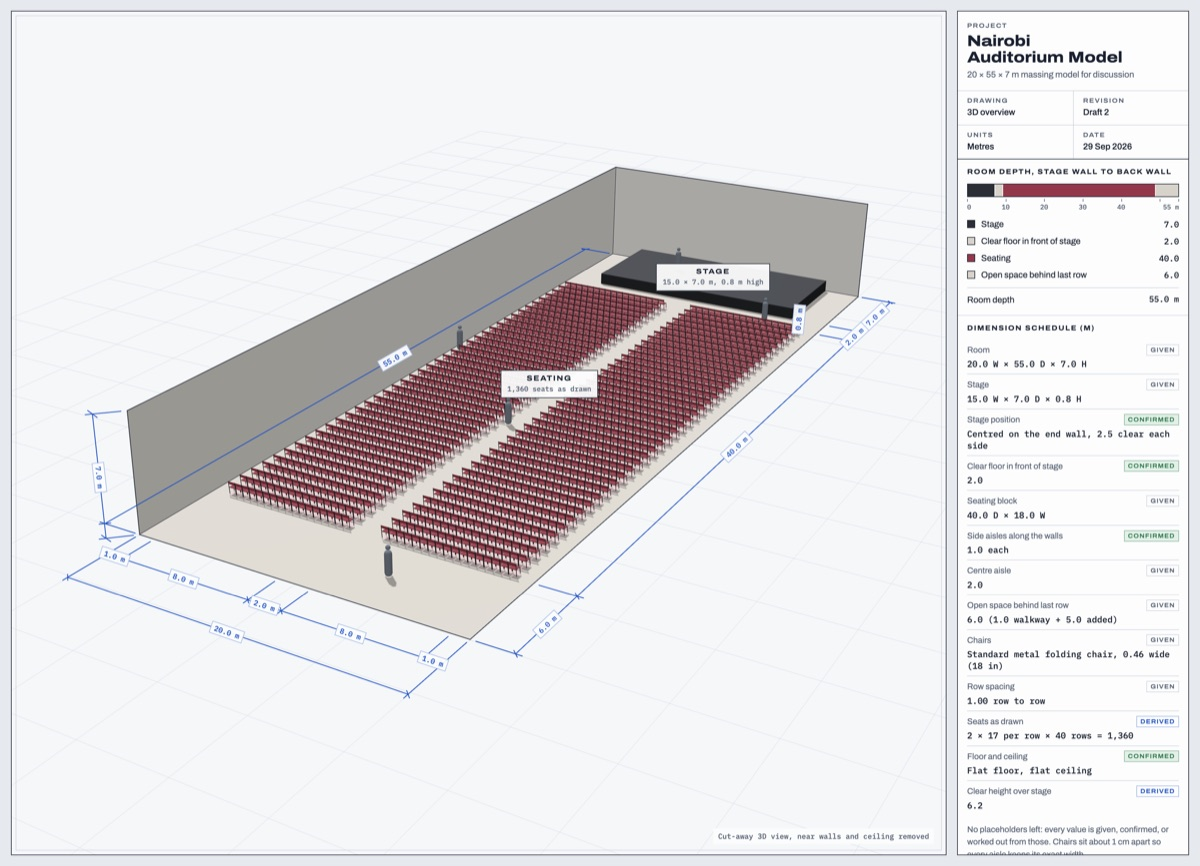
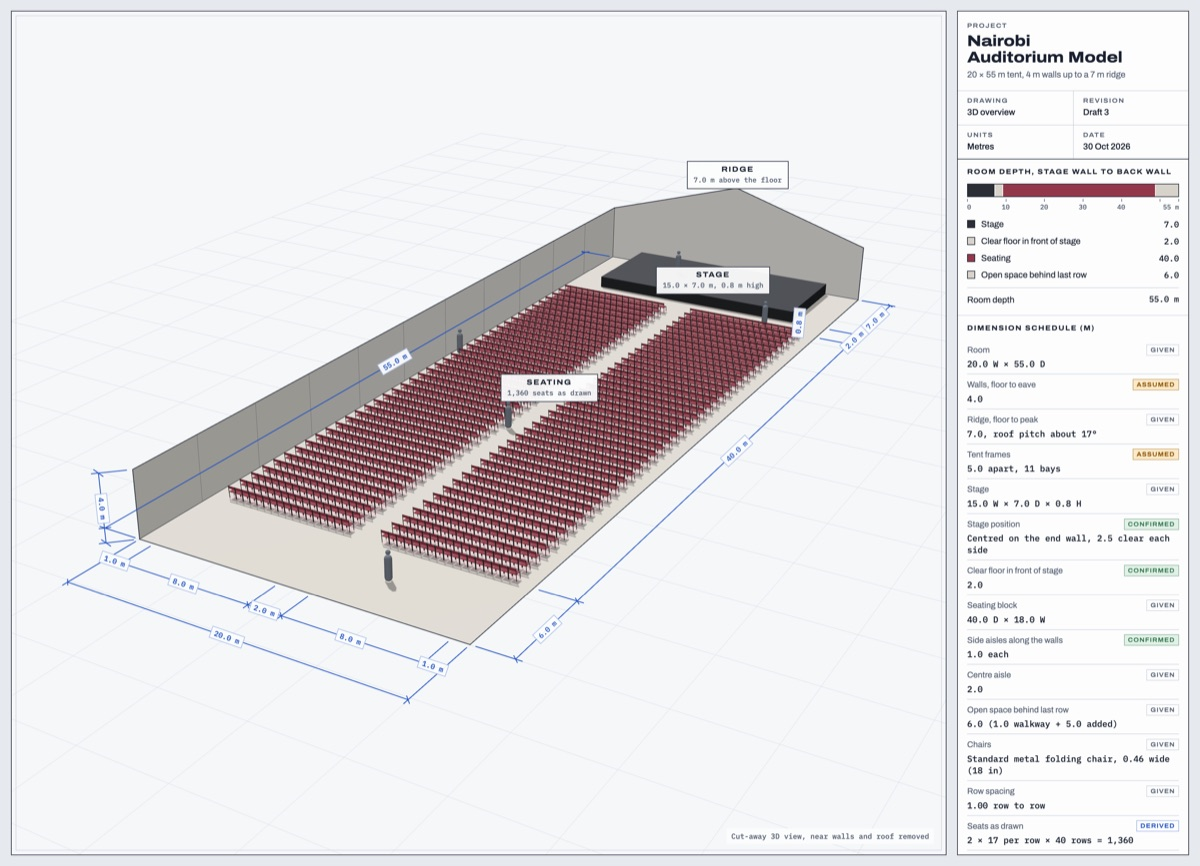
Draft 3: the room is a tent, as in the photo
4 m walls to the eaves, two roof slopes up to the 7 m ridge, gabled end walls,
frames every 5 m. Eave height and frame spacing read from the 26 July photo.

diff --git a/index.html b/index.html
@@ -4,10 +4,10 @@
 <meta charset="utf-8">
 <meta name="viewport" content="width=device-width, initial-scale=1, viewport-fit=cover">
 <meta name="robots" content="noindex">
-<meta name="description" content="Interactive 3D massing model of a 20 × 55 × 7 m auditorium: 15 × 7 m stage and 1,360 folding chairs either side of a 2 m centre aisle. Plan, section and eye-level views, and a photo of the room today.">
+<meta name="description" content="Interactive 3D massing model of a 20 × 55 m tent auditorium (4 m walls up to a 7 m ridge): 15 × 7 m stage and 1,360 folding chairs either side of a 2 m centre aisle. Plan, section and eye-level views, and a photo of the room today.">
 <meta property="og:type" content="website">
 <meta property="og:title" content="Nairobi Auditorium Model">
-<meta property="og:description" content="Interactive 3D massing model of a 20 × 55 × 7 m auditorium: 15 × 7 m stage and 1,360 folding chairs either side of a 2 m centre aisle. Plan, section and eye-level views, and a photo of the room today.">
+<meta property="og:description" content="Interactive 3D massing model of a 20 × 55 m tent auditorium (4 m walls up to a 7 m ridge): 15 × 7 m stage and 1,360 folding chairs either side of a 2 m centre aisle. Plan, section and eye-level views, and a photo of the room today.">
 <meta property="og:url" content="https://brianpitre.github.io/nairobi-auditorium-model/">
 <meta property="og:image" content="https://brianpitre.github.io/nairobi-auditorium-model/preview.jpg">
 <meta name="twitter:card" content="summary_large_image">
@@ -222,7 +222,7 @@ a:focus-visible { outline: 2px solid var(--dim); outline-offset: 2px; }
         <div class="bar"><i></i><i></i><i></i><i></i></div>
         <div class="ticks"><span>0</span><span class="t-mid">5</span><span class="t-end">10 m</span></div>
       </div>
-      <p id="caption" class="caption">Cut-away 3D view, near walls and ceiling removed</p>
+      <p id="caption" class="caption">Cut-away 3D view, near walls and roof removed</p>
     </div>
   </main>
 
@@ -231,12 +231,12 @@ a:focus-visible { outline: 2px solid var(--dim); outline-offset: 2px; }
       <div class="wide">
         <span class="k">Project</span>
         <h1 data-k="title">Nairobi Auditorium Model</h1>
-        <p class="sub" data-k="sub">20 × 55 × 7 m massing model for discussion</p>
+        <p class="sub" data-k="sub">20 × 55 m tent, 4 m walls up to a 7 m ridge</p>
       </div>
       <div><span class="k">Drawing</span><span class="v" id="tbView">3D overview</span></div>
-      <div class="c2"><span class="k">Revision</span><span class="v" data-k="rev">Draft 2</span></div>
+      <div class="c2"><span class="k">Revision</span><span class="v" data-k="rev">Draft 3</span></div>
       <div><span class="k">Units</span><span class="v">Metres</span></div>
-      <div class="c2"><span class="k">Date</span><span class="v" data-k="date">29 Sep 2026</span></div>
+      <div class="c2"><span class="k">Date</span><span class="v" data-k="date">30 Oct 2026</span></div>
     </header>
 
     <section class="sec photo-sec ui-only" id="photo">
@@ -274,7 +274,10 @@ a:focus-visible { outline: 2px solid var(--dim); outline-offset: 2px; }
     <section class="sec">
       <h2>Dimension schedule (m)</h2>
       <ul class="sched">
-        <li><span class="item">Room</span><em class="chip given">Given</em><span class="val" data-k="room">20.0 W × 55.0 D × 7.0 H</span></li>
+        <li><span class="item">Room</span><em class="chip given">Given</em><span class="val" data-k="room">20.0 W × 55.0 D</span></li>
+        <li><span class="item">Walls, floor to eave</span><em class="chip assumed">Assumed</em><span class="val" data-k="eave">4.0</span></li>
+        <li><span class="item">Ridge, floor to peak</span><em class="chip given">Given</em><span class="val" data-k="ridge">7.0, roof pitch about 17°</span></li>
+        <li><span class="item">Tent frames</span><em class="chip assumed">Assumed</em><span class="val" data-k="bays">5.0 apart, 11 bays</span></li>
         <li><span class="item">Stage</span><em class="chip given">Given</em><span class="val" data-k="stage">15.0 W × 7.0 D × 0.8 H</span></li>
         <li><span class="item">Stage position</span><em class="chip confirmed">Confirmed</em><span class="val" data-k="stagepos">Centred on the end wall, 2.5 clear each side</span></li>
         <li><span class="item">Clear floor in front of stage</span><em class="chip confirmed">Confirmed</em><span class="val" data-k="front">2.0</span></li>
@@ -285,10 +288,10 @@ a:focus-visible { outline: 2px solid var(--dim); outline-offset: 2px; }
         <li><span class="item">Chairs</span><em class="chip given">Given</em><span class="val" data-k="chair">Standard metal folding chair, 0.46 wide (18 in)</span></li>
         <li><span class="item">Row spacing</span><em class="chip given">Given</em><span class="val" data-k="pitch">1.00 row to row</span></li>
         <li><span class="item">Seats as drawn</span><em class="chip derived">Derived</em><span class="val" data-k="seats">2 × 17 per row × 40 rows = 1,360</span></li>
-        <li><span class="item">Floor and ceiling</span><em class="chip confirmed">Confirmed</em><span class="val">Flat floor, flat ceiling</span></li>
-        <li><span class="item">Clear height over stage</span><em class="chip derived">Derived</em><span class="val" data-k="clearH">6.2</span></li>
+        <li><span class="item">Floor and roof</span><em class="chip confirmed">Confirmed</em><span class="val">Flat floor; tent roof sloping both ways from a centre ridge</span></li>
+        <li><span class="item">Clear height over stage</span><em class="chip derived">Derived</em><span class="val" data-k="clearH">6.2 under the ridge, 4.0 at the stage’s side edges</span></li>
       </ul>
-      <p class="note">No placeholders left: every value is given, confirmed, or worked out from those. Chairs sit about 1 cm apart so every aisle keeps its exact width.</p>
+      <p class="note">The two assumed values, wall height and frame spacing, are read from the 26 July photo and need confirming. Everything else is given, confirmed, or worked out from those. Chairs sit about 1 cm apart so every aisle keeps its exact width.</p>
     </section>
 
     <section class="sec ui-only">
@@ -346,9 +349,13 @@ import { LineMaterial } from 'three/addons/lines/LineMaterial.js';
 import { mergeGeometries } from 'three/addons/utils/BufferGeometryUtils.js';
 
 /* ---------- The brief, in metres ----------
-   Draft 2: every value is given by the client or confirmed by them. */
-const REV = 'Draft 2', REV_DATE = '29 Sep 2026';
-const ROOM  = { w: 20, d: 50 + 5, h: 7 };   // 50 m room plus 5 m of open space added at the rear
+   Draft 3: the room is a tent, as in the 26 July 2026 photo: side walls up to the eaves, then two
+   roof slopes meeting at a ridge down the centre, with gabled end walls. The given 7 m height is
+   the ridge. EAVE and BAY are read from the photo (to confirm); every other value is given or confirmed. */
+const REV = 'Draft 3', REV_DATE = '30 Oct 2026';
+const ROOM  = { w: 20, d: 50 + 5, h: 7 };   // 50 m room plus 5 m of open space added at the rear; h = ridge
+const EAVE  = 4.0;                          // floor to eave (top of the side walls), read from the photo
+const BAY   = 5.0;                          // tent frames along the length, read from the photo
 const STAGE = { w: 15, d: 7, h: 0.8 };      // centred on the end wall, against it
 const SEAT_DEPTH   = 40;
 const FRONT_CLEAR  = 2.0;                   // open floor between the stage lip and the first row
@@ -370,16 +377,23 @@ const PITCH    = HALF_W / PER_SIDE;                         // chairs spread eve
 const PER_ROW  = 2 * PER_SIDE;
 const ROWS     = Math.floor(SEAT_DEPTH / ROW_PITCH + 1e-6);
 const SEATS    = PER_ROW * ROWS;
+const RISE     = H - EAVE;                                  // eave to ridge
+const ROOF_DEG = Math.atan2(RISE, W / 2) * 180 / Math.PI;
+const roofAt   = x => EAVE + RISE * (1 - Math.abs(x) / (W / 2));   // height of the roof at x across the room
+const FRAMES   = Math.round(D / BAY);                       // bays between the end walls
 
 /* ---------- Schedule text comes from the same numbers as the model ---------- */
 const f1 = n => n.toFixed(1);
 const put = (k, s) => document.querySelectorAll(`[data-k="${k}"]`).forEach(e => { e.textContent = s; });
 const NAME = 'Nairobi Auditorium Model';
 put('title', NAME);
-put('sub', `${W} × ${D} × ${H} m massing model for discussion`);
+put('sub', `${W} × ${D} m tent, ${EAVE} m walls up to a ${H} m ridge`);
 put('rev', REV);
 put('date', REV_DATE);
-put('room', `${f1(W)} W × ${f1(D)} D × ${f1(H)} H`);
+put('room', `${f1(W)} W × ${f1(D)} D`);
+put('eave', f1(EAVE));
+put('ridge', `${f1(H)}, roof pitch about ${Math.round(ROOF_DEG)}°`);
+put('bays', `${f1(BAY)} apart, ${FRAMES} bays`);
 put('stage', `${f1(STAGE.w)} W × ${f1(STAGE.d)} D × ${f1(STAGE.h)} H`);
 put('stagepos', `Centred on the end wall, ${f1((W - STAGE.w) / 2)} clear each side`);
 put('front', f1(FRONT_CLEAR));
@@ -389,7 +403,7 @@ put('caisle', f1(CENTER_AISLE));
 put('chair', `Standard metal folding chair, ${CHAIR_W.toFixed(2)} wide (18 in)`);
 put('pitch', `${ROW_PITCH.toFixed(2)} row to row`);
 put('seats', `2 × ${PER_SIDE} per row × ${ROWS} rows = ${SEATS.toLocaleString('en-US')}`);
-put('clearH', f1(H - STAGE.h));
+put('clearH', `${f1(H - STAGE.h)} under the ridge, ${f1(roofAt(STAGE.w / 2) - STAGE.h)} at the stage’s side edges`);
 put('d-stage', f1(STAGE.d)); put('d-front', f1(FRONT_CLEAR)); put('d-seat', f1(SEAT_DEPTH));
 put('d-rear', f1(REAR)); put('d-total', `${f1(D)} m`);
 const flex = { stage: STAGE.d, front: FRONT_CLEAR, seat: SEAT_DEPTH, rear: REAR };
@@ -478,7 +492,10 @@ const M = {
 };
 
 /* ---------- Room: every surface faces inward, so from outside the near walls
-   and the ceiling drop away and you look straight in (a cut-away model). ---------- */
+   and the roof drop away and you look straight in (a cut-away model). ---------- */
+const V = (x, y, z) => new THREE.Vector3(x, y, z);
+const [xl, xr] = [-W / 2, W / 2];
+const ROOF_N = [V(RISE, -W / 2, 0).normalize(), V(-RISE, -W / 2, 0).normalize()];   // left and right slopes, facing in
 function plane(w, h, m, pos, rot) {
   const p = new THREE.Mesh(new THREE.PlaneGeometry(w, h), m);
   p.position.set(...pos);
@@ -487,12 +504,26 @@ function plane(w, h, m, pos, rot) {
   scene.add(p);
   return p;
 }
+// A flat convex face from its corners, wound so its front faces `inward`
+function face(pts, m, inward) {
+  const n = pts[1].clone().sub(pts[0]).cross(pts[2].clone().sub(pts[0]));
+  if (n.dot(inward) < 0) pts = [...pts].reverse();
+  const tri = [];
+  for (let i = 1; i < pts.length - 1; i++) tri.push(pts[0], pts[i], pts[i + 1]);
+  const g = new THREE.BufferGeometry().setFromPoints(tri);
+  g.computeVertexNormals();
+  const f = new THREE.Mesh(g, m);
+  f.receiveShadow = true;
+  scene.add(f);
+  return f;
+}
 plane(W, D, M.floor, [0, 0, D / 2], [-Math.PI / 2, 0, 0]);
-plane(W, D, M.ceil, [0, H, D / 2], [Math.PI / 2, 0, 0]);
-plane(D, H, M.wall, [-W / 2, H / 2, D / 2], [0, Math.PI / 2, 0]);
-plane(D, H, M.wall, [W / 2, H / 2, D / 2], [0, -Math.PI / 2, 0]);
-plane(W, H, M.wall, [0, H / 2, 0], [0, 0, 0]);
-plane(W, H, M.wall, [0, H / 2, D], [0, Math.PI, 0]);
+face([V(xl, 0, 0), V(xl, 0, D), V(xl, EAVE, D), V(xl, EAVE, 0)], M.wall, V(1, 0, 0));    // side walls
+face([V(xr, 0, 0), V(xr, 0, D), V(xr, EAVE, D), V(xr, EAVE, 0)], M.wall, V(-1, 0, 0));
+face([V(xl, EAVE, 0), V(xl, EAVE, D), V(0, H, D), V(0, H, 0)], M.ceil, ROOF_N[0]);       // roof slopes
+face([V(xr, EAVE, 0), V(xr, EAVE, D), V(0, H, D), V(0, H, 0)], M.ceil, ROOF_N[1]);
+for (const [z, s] of [[0, 1], [D, -1]])                                                  // gabled end walls
+  face([V(xl, 0, z), V(xr, 0, z), V(xr, EAVE, z), V(0, H, z), V(xl, EAVE, z)], M.wall, V(0, 0, s));
 
 // Seating footprints, one each side of the centre aisle
 for (const s of [-1, 1]) {
@@ -568,29 +599,37 @@ scene.add(grid);
 
 /* ---------- Room outline: an edge shows only while one of the two surfaces it
    bounds faces the camera, so the removed walls leave no stray lines. ---------- */
-const V = (x, y, z) => new THREE.Vector3(x, y, z);
 const SURF = [
-  { n: V(0, 1, 0), p: V(0, 0, D / 2) },            // 0 floor
-  { n: V(0, -1, 0), p: V(0, H, D / 2) },           // 1 ceiling
-  { n: V(1, 0, 0), p: V(-W / 2, H / 2, D / 2) },   // 2 left wall
-  { n: V(-1, 0, 0), p: V(W / 2, H / 2, D / 2) },   // 3 right wall
-  { n: V(0, 0, 1), p: V(0, H / 2, 0) },            // 4 stage end wall
-  { n: V(0, 0, -1), p: V(0, H / 2, D) },           // 5 back wall
+  { n: V(0, 1, 0), p: V(0, 0, D / 2) },                     // 0 floor
+  { n: ROOF_N[0], p: V(xl / 2, (EAVE + H) / 2, D / 2) },     // 1 left roof slope
+  { n: V(1, 0, 0), p: V(xl, EAVE / 2, D / 2) },             // 2 left wall
+  { n: V(-1, 0, 0), p: V(xr, EAVE / 2, D / 2) },            // 3 right wall
+  { n: V(0, 0, 1), p: V(0, EAVE / 2, 0) },                  // 4 stage end wall
+  { n: V(0, 0, -1), p: V(0, EAVE / 2, D) },                 // 5 back wall
+  { n: ROOF_N[1], p: V(xr / 2, (EAVE + H) / 2, D / 2) },     // 6 right roof slope
 ];
 const edgeMat = new LineMaterial({ linewidth: 1.3, transparent: true, opacity: 0.8, polygonOffset: true, polygonOffsetFactor: -1, polygonOffsetUnits: -4 });
+const ribMat = new LineMaterial({ linewidth: 1, transparent: true, opacity: 0.3, polygonOffset: true, polygonOffsetFactor: -1, polygonOffsetUnits: -4 });
 const edges = [];
-function edge(a, b, s1, s2) {
-  const l = new LineSegments2(new LineSegmentsGeometry().setPositions([...a, ...b]), edgeMat);
+function edge(a, b, s1, s2, lm = edgeMat) {
+  const l = new LineSegments2(new LineSegmentsGeometry().setPositions([...a, ...b]), lm);
   scene.add(l);
   edges.push({ l, s1, s2 });
 }
-const [xl, xr] = [-W / 2, W / 2];
 edge([xl, 0, 0], [xr, 0, 0], 0, 4); edge([xl, 0, D], [xr, 0, D], 0, 5);
 edge([xl, 0, 0], [xl, 0, D], 0, 2); edge([xr, 0, 0], [xr, 0, D], 0, 3);
-edge([xl, H, 0], [xr, H, 0], 1, 4); edge([xl, H, D], [xr, H, D], 1, 5);
-edge([xl, H, 0], [xl, H, D], 1, 2); edge([xr, H, 0], [xr, H, D], 1, 3);
-edge([xl, 0, 0], [xl, H, 0], 2, 4); edge([xr, 0, 0], [xr, H, 0], 3, 4);
-edge([xl, 0, D], [xl, H, D], 2, 5); edge([xr, 0, D], [xr, H, D], 3, 5);
+edge([xl, EAVE, 0], [xl, EAVE, D], 1, 2); edge([xr, EAVE, 0], [xr, EAVE, D], 6, 3);    // eaves
+edge([0, H, 0], [0, H, D], 1, 6);                                                        // ridge
+edge([xl, EAVE, 0], [0, H, 0], 1, 4); edge([0, H, 0], [xr, EAVE, 0], 6, 4);             // gable ends
+edge([xl, EAVE, D], [0, H, D], 1, 5); edge([0, H, D], [xr, EAVE, D], 6, 5);
+edge([xl, 0, 0], [xl, EAVE, 0], 2, 4); edge([xr, 0, 0], [xr, EAVE, 0], 3, 4);
+edge([xl, 0, D], [xl, EAVE, D], 2, 5); edge([xr, 0, D], [xr, EAVE, D], 3, 5);
+// Tent frames: a post up each wall and a rafter up each slope, drawn faintly with their surface
+for (let i = 1; i < FRAMES; i++) {
+  const z = i * D / FRAMES;
+  edge([xl, 0, z], [xl, EAVE, z], 2, 2, ribMat); edge([xr, 0, z], [xr, EAVE, z], 3, 3, ribMat);
+  edge([xl, EAVE, z], [0, H, z], 1, 1, ribMat); edge([0, H, z], [xr, EAVE, z], 6, 6, ribMat);
+}
 const _v = new THREE.Vector3();
 function updateEdges() {
   const facing = SURF.map(s => camera.isOrthographicCamera
@@ -664,15 +703,17 @@ chain([-W / 2, -STAGE.w / 2, STAGE.w / 2, W / 2].map(x => V(x, 0, 0)), V(0, 0, -
 chain([V(-W / 2, 0, 0), V(W / 2, 0, 0)], V(0, 0, -5.2), [m(W)], ['plan']);
 // 3D only: overall width across the back (nearest the camera) and heights on visible corners
 chain([V(-W / 2, 0, D), V(W / 2, 0, D)], V(0, 0, 5.2), [m(W)], ['3d']);
-chain([V(-W / 2, 0, D), V(-W / 2, H, D)], V(-1.2, 0, 1.2), [m(H)], ['3d']);
+chain([V(-W / 2, 0, D), V(-W / 2, EAVE, D)], V(-1.2, 0, 1.2), [m(EAVE)], ['3d']);
+zoneLabel('Ridge', `${m(H)} above the floor`, V(0, H + 1.0, 0), ['3d']);   // on the far gable's peak
 chain([V(STAGE.w / 2, 0, STAGE.d), V(STAGE.w / 2, STAGE.h, STAGE.d)], V(0.8, 0, 0.8), [m(STAGE.h)], ['3d']);
 // Long section: strings drawn in the cut plane
 const SX = -W / 2 - 0.5;
 chain(depthStops.map(z => V(SX, 0, z)), V(0, -1.7, 0), depthTexts, ['section']);
 chain([V(SX, 0, 0), V(SX, 0, D)], V(0, -3.6, 0), [m(D)], ['section']);
-chain([V(SX, 0, D), V(SX, H, D)], V(0, 0, 1.8), [m(H)], ['section']);
+chain([V(SX, 0, D), V(SX, EAVE, D)], V(0, 0, 1.8), [`${m(EAVE)} eave`], ['section']);
+chain([V(SX, 0, D), V(SX, H, D)], V(0, 0, 3.6), [`${m(H)} ridge`], ['section']);
 chain([V(SX, 0, STAGE.d), V(SX, STAGE.h, STAGE.d)], V(0, 0, 0.6), [m(STAGE.h)], ['section']);
-chain([V(SX, STAGE.h, 0.6), V(SX, H, 0.6)], V(0, 0, 0), [`${m(H - STAGE.h)} clear`], ['section'], { ext: false, tickN: V(0, 0, 1) });
+chain([V(SX, STAGE.h, 0.6), V(SX, H, 0.6)], V(0, 0, 0), [`${m(H - STAGE.h)} clear under ridge`], ['section'], { ext: false, tickN: V(0, 0, 1) });
 
 const stageSub = `${f1(STAGE.w)} × ${f1(STAGE.d)} m, ${f1(STAGE.h)} m high`;
 const seatSub = `${SEATS.toLocaleString('en-US')} seats as drawn`;
@@ -699,7 +740,7 @@ function orientLabels() {
 
 /* ---------- Views ---------- */
 const VIEWS = {
-  '3d':    { name: '3D overview', cap: 'Cut-away 3D view, near walls and ceiling removed', dir: [34, 30, 57], tgt: [0, 0, D / 2], fov: 30 },
+  '3d':    { name: '3D overview', cap: 'Cut-away 3D view, near walls and roof removed', dir: [34, 30, 57], tgt: [0, 0, D / 2], fov: 30 },
   plan:    { name: 'Plan', ortho: true },
   section: { name: 'Long section', ortho: true, cap: 'Long section, seen from the audience’s left' },
   // Eye-level cameras look straight down the centre aisle
@@ -718,9 +759,10 @@ const aspect = () => Math.max(0.2, host.clientWidth / Math.max(1, host.clientHei
 
 // Frame the 3D view so the room and its dimension strings fill the viewport at any aspect ratio.
 const FIT_3D = [
-  ...[xl, xr].flatMap(x => [0, H].flatMap(y => [0, D].map(z => V(x, y, z)))),
+  ...[xl, xr].flatMap(x => [0, EAVE].flatMap(y => [0, D].map(z => V(x, y, z)))),
+  V(0, H, 0), V(0, H, D), V(0, H + 2.0, 0),
   V(xr + 2.8, 0, 0), V(xr + 2.8, 0, D), V(xl - 2.8, 0, 0), V(xl - 2.8, 0, D),
-  V(xl, 0, D + 5.6), V(xr, 0, D + 5.6), V(xl - 1.3, H, D + 1.3),
+  V(xl, 0, D + 5.6), V(xr, 0, D + 5.6), V(xl - 1.3, EAVE, D + 1.3),
 ];
 const scratch = new THREE.PerspectiveCamera();
 function fitPersp(dir, tgt0, fov) {
@@ -889,6 +931,7 @@ function applyTheme() {
   const tok = n => cs.getPropertyValue(n).trim();
   dimMat.color.set(tok('--dim'));
   edgeMat.color.set(tok('--ink'));
+  ribMat.color.set(tok('--ink'));
   grid.material.color.set(tok('--grid'));
   needsRender = true;
 }
